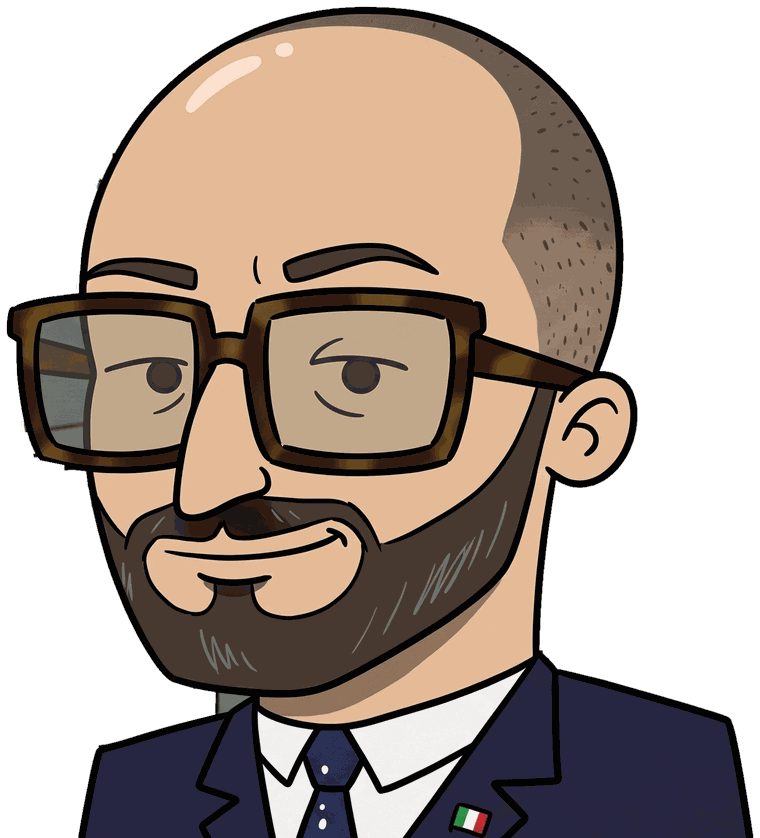
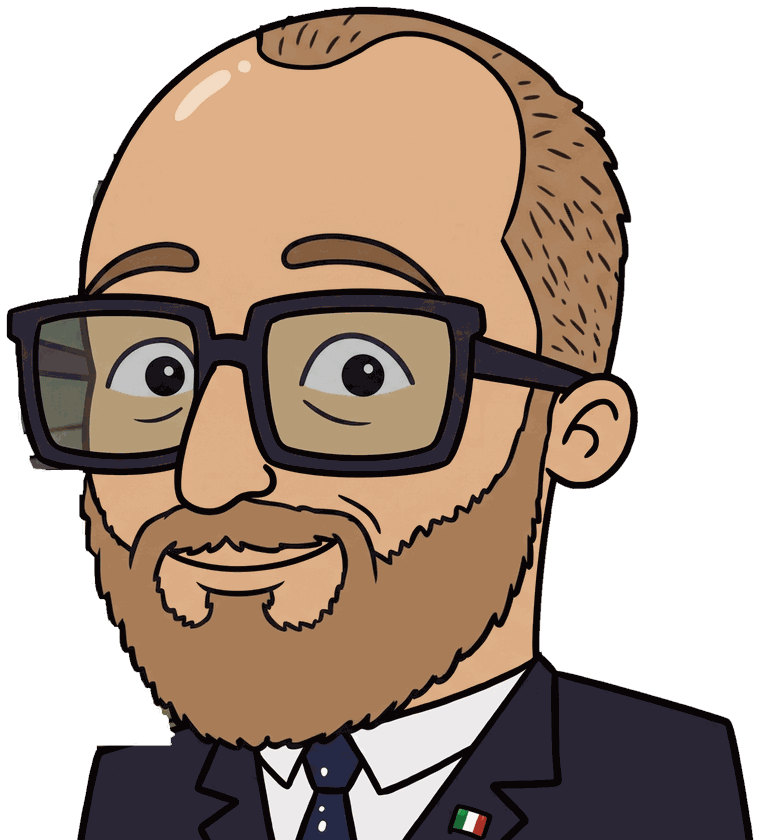
Sostituisce il ritratto con il disegno nuovo e rende generale lo scontorno
Il nuovo disegno ha la stessa scena ma la montatura degli occhiali scura e
la lente che lascia vedere lo sfondo: il taglio tarato sul disegno di prima
mangiava la lente e lasciava attaccato il mobile.

Ora il bordo del soggetto si riconosce dal rosso che supera insieme il blu
e il verde, che il legno del mobile non ha, e il cammino verso sinistra
procede di fascia in fascia: il tratto nero si attraversa sempre, una zona
chiara solo se è stretta, fredda di colore e chiusa da un altro tratto,
cioè se è una lente e non lo sfondo. La mediana su ottantuno righe regge
anche dove l'asta degli occhiali confonde le fasce.

Provato su tutti e due i disegni: in ognuno resta una sola sagoma.

Claude-Session: https://claude.ai/code/session_01JMbSEuxVZNQcryUKyYKwZ2

diff --git a/index.html b/index.html
@@ -80,7 +80,7 @@
         <p>Qui non si sforna niente. Si firmano atti, si fissano date e si risponde di quello che si &egrave;
            fatto. La pizza la fanno meglio in paese: qui si fa il resto.</p>
       </div>
-      <img class="ritratto" src="ritratto.png?v=b032f69f" width="760" height="838"
+      <img class="ritratto" src="ritratto.png?v=728543e7" width="760" height="840"
            alt="Ritratto a fumetto di Guido Costalonga: testa pelata, barba, occhiali dalla montatura spessa, giacca blu con la coccarda tricolore.">
     </div>
 

diff --git a/scontorna.py b/scontorna.py
@@ -21,53 +21,94 @@ SOGLIA_SCURO = 25       # solo il nero pieno è contorno: lo sfondo qui è scuro
 TOLLERANZA = 999        # il colore non vincola: a fermare il riempimento basta il contorno
 
 
-# Il taglio a sinistra vale per questo ritratto: lo sfondo freddo sta a
-# sinistra, il soggetto è caldo di pelle. I due numeri qui sotto dicono da
-# dove partire a cercare e fin dove guardare.
-PARTENZA = 350          # prima colonna utile: più a sinistra c'è solo sfondo
-ARRIVO = 900            # oltre questa colonna il soggetto c'è di sicuro
-FINE_OCCHIALI = 940     # ultima riga in cui il bordo è la montatura
-FINE_TAGLIO = 1010      # sotto questa riga non resta nulla da togliere
-BORDO_BARBA = 620       # bordo del soggetto sotto gli occhiali
+# Il taglio a sinistra: lo sfondo di questo disegno sta a sinistra del
+# personaggio, e il disegno chiude televisore e mobile con lo stesso tratto
+# nero della testa, quindi nessun assottigliamento li stacca. Si taglia
+# seguendo il bordo vero del soggetto, misurato riga per riga.
+QUOTA_ARRIVO = 0.62     # fin dove cercare il soggetto, in frazione di larghezza
+FILA_MINIMA = 10        # quanti pixel di seguito servono per dire "questa è pelle"
+ROSSO_SU_BLU = 45       # quanto il rosso supera il blu nella pelle e nella barba
+ROSSO_SU_VERDE = 20     # quanto il rosso supera il verde: il legno del mobile non ci arriva
+SOGLIA_TRATTO = 70      # sotto questa luce si è dentro al tratto nero del contorno
+CELLA_CHIUSA = 200      # larghezza massima di una cella chiusa dentro il disegno
+CELLA_FREDDA = 25       # una cella da scavalcare non ha il rosso sopra il blu
+SALTI = 3               # quante celle chiuse di seguito si possono scavalcare
+LISCIO = 40             # mezza finestra della statistica che liscia il bordo
+QUANTILE = 50           # la mediana: regge anche cinquanta righe confuse di seguito
 
 
-def taglia_a_sinistra(a, lum, soggetto):
-    """Toglie dalla sagoma tutto ciò che sta a sinistra del bordo vero."""
-    h, w = soggetto.shape
-    caldo = (a[:, :, 0] - a[:, :, 2]) > 25
+def fasce(riga_scura):
+    """Spezza una riga nelle sue fasce: (inizio, fine compreso, scura)."""
+    out, x, w = [], 0, len(riga_scura)
+    while x < w:
+        s = bool(riga_scura[x]); i = x
+        while x < w and bool(riga_scura[x]) == s:
+            x += 1
+        out.append((i, x - 1, s))
+    return out
+
+
+def bordo_del_soggetto(a, lum):
+    """Per ogni riga dice dove comincia il soggetto, oppure -1 se non c'è.
+
+    Il segno della pelle e della barba è il rosso che supera insieme il blu e
+    il verde: il grigio del televisore non lo ha, e il legno del mobile ha sì
+    il rosso sopra il blu ma non sopra il verde, quindi non viene scambiato
+    per personaggio.
+
+    Trovata la prima pelle si cammina verso sinistra di fascia in fascia. Il
+    tratto nero si attraversa sempre, perché è il contorno del disegno. Una
+    fascia chiara si attraversa solo se è stretta, fredda di colore e chiusa
+    da un altro tratto: è il caso della lente degli occhiali, che lascia
+    vedere lo sfondo ma appartiene al soggetto. Lo sfondo vero è largo, e il
+    legno del mobile ha il rosso sopra il blu: lì il cammino si ferma.
+    """
+    h, w, _ = a.shape
+    r, g, b = a[:, :, 0], a[:, :, 1], a[:, :, 2]
+    pelle = ((r - b) > ROSSO_SU_BLU) & ((r - g) > ROSSO_SU_VERDE)
+    scuro = lum < SOGLIA_TRATTO
+    arrivo = int(w * QUOTA_ARRIVO)
     bordo = np.full(h, -1)
     for y in range(h):
-        x0, fila = None, 0
-        for x in range(PARTENZA, min(ARRIVO, w)):
-            if caldo[y, x]:
+        x, fila = -1, 0
+        for i in range(arrivo):
+            if pelle[y, i]:
                 fila += 1
-                if fila >= 8:
-                    x0 = x - 7
+                if fila >= FILA_MINIMA:
+                    x = i - FILA_MINIMA + 1
                     break
             else:
                 fila = 0
-        if x0 is None:
+        if x < 0:
             continue
-        while x0 > PARTENZA and lum[y, x0 - 1] < 70:
-            x0 -= 1
-        bordo[y] = x0
-    # una mediana mobile toglie i salti dove passa la linea del mobile
+        fs = fasce(scuro[y])
+        i = 0
+        while i < len(fs) and fs[i][1] < x:
+            i += 1
+        while i >= 0 and not fs[i][2]:      # torna alla prima fascia scura
+            i -= 1
+        if i < 0:
+            continue
+        for _ in range(SALTI):
+            if i - 1 < 0:
+                break
+            p, q, _s = fs[i - 1]
+            freddo = int(np.mean(r[y, p:q + 1]) - np.mean(b[y, p:q + 1])) < CELLA_FREDDA
+            if (q - p + 1) <= CELLA_CHIUSA and freddo and i - 2 >= 0:
+                i -= 2                      # era una cella chiusa: si scavalca
+            else:
+                break                       # era lo sfondo: il bordo è questo
+        bordo[y] = fs[i][0]
+    # Una statistica mobile toglie i salti delle righe in cui il bordo passa
+    # dietro a una linea scura dello sfondo. Non si prende la mediana ma il
+    # primo quarto: in caso di dubbio il taglio resta più a sinistra, cioè
+    # lascia un filo di sfondo invece di mangiare un pezzo di disegno.
     liscio = bordo.copy()
     for y in range(h):
-        finestra = [v for v in bordo[max(0, y - 15):y + 16] if v > 0]
-        if finestra:
-            liscio[y] = int(np.median(finestra))
-    for y in range(PARTENZA, min(FINE_TAGLIO, h)):
-        if y <= FINE_OCCHIALI:
-            taglio = liscio[y]
-        elif y < FINE_OCCHIALI + 10:
-            passo = (y - FINE_OCCHIALI) / 10.0
-            taglio = int(liscio[FINE_OCCHIALI] + (BORDO_BARBA - liscio[FINE_OCCHIALI]) * passo)
-        else:
-            taglio = BORDO_BARBA
-        if taglio > 0:
-            soggetto[y, :taglio] = False
-    return soggetto
+        finestra = [v for v in bordo[max(0, y - LISCIO):y + LISCIO + 1] if v >= 0]
+        if finestra and bordo[y] >= 0:
+            liscio[y] = int(np.percentile(finestra, QUANTILE))
+    return liscio
 
 
 def scontorna(entrata, uscita, margine=14):
@@ -118,11 +159,19 @@ def scontorna(entrata, uscita, margine=14):
                 sfondo[ny, nx] = True
                 coda.append((ny, nx))
 
-    # 2. Della parte rimasta si tiene solo la sagoma più grande: il personaggio.
+    # 2. Taglio a sinistra lungo il bordo vero del soggetto: così televisore e
+    # mobile si staccano dal personaggio prima ancora di contare le sagome.
+    davanti = ~sfondo
+    bordo = bordo_del_soggetto(a, lum)
+    for y in range(h):
+        if bordo[y] > 0:
+            davanti[y, :bordo[y]] = False
+    sfondo = ~davanti
+
+    # 3. Della parte rimasta si tiene solo la sagoma più grande: il personaggio.
     # Prima però si assottiglia la maschera: così i fili di pochi pixel che
     # tengono ancora attaccato il televisore si spezzano, mentre la figura,
     # che è spessa, resta tutta intera. Alla fine si rigonfia di altrettanto.
-    davanti = ~sfondo
     m = Image.fromarray((davanti * 255).astype(np.uint8), "L")
     m = m.filter(ImageFilter.MinFilter(2 * EROSIONE + 1))
     davanti = np.asarray(m) > 127
@@ -148,20 +197,12 @@ def scontorna(entrata, uscita, margine=14):
     print("sagome trovate: %d | personaggio: %d pixel (%.1f%% del quadro)"
           % (n, dim_migliore, 100.0 * dim_migliore / (h * w)))
 
-    # 2bis. Del televisore e del mobile resta la parte che tocca il disegno:
-    # il loro contorno, dove sono nascosti dalla testa, è lo stesso contorno
-    # della testa, quindi nessun assottigliamento li stacca. Si tagliano
-    # seguendo il bordo vero del soggetto, misurato riga per riga: dal grigio
-    # dello sfondo si cammina verso destra fino alla prima pelle e si torna
-    # indietro fino a dove comincia il nero del contorno.
-    soggetto = taglia_a_sinistra(a, lum, soggetto)
-
-    # 3. Trasparenza con bordo ammorbidito, per non lasciare la scaletta.
+    # 4. Trasparenza con bordo ammorbidito, per non lasciare la scaletta.
     alfa = Image.fromarray((soggetto * 255).astype(np.uint8), "L")
     alfa = alfa.filter(ImageFilter.GaussianBlur(0.7))
     fuori = Image.merge("RGBA", (*im.split(), alfa))
 
-    # 4. Ritaglio sul personaggio, con un margine di respiro.
+    # 5. Ritaglio sul personaggio, con un margine di respiro.
     ys, xs = np.where(soggetto)
     y1, y2 = max(0, ys.min() - margine), min(h, ys.max() + 1 + margine)
     x1, x2 = max(0, xs.min() - margine), min(w, xs.max() + 1 + margine)

diff --git a/costruisci.py b/costruisci.py
@@ -265,7 +265,7 @@ CORPO_INDEX = """
         <p>Qui non si sforna niente. Si firmano atti, si fissano date e si risponde di quello che si &egrave;
            fatto. La pizza la fanno meglio in paese: qui si fa il resto.</p>
       </div>
-      <img class="ritratto" src="ritratto.png""" + impronta("ritratto.png") + """" width="760" height="838"
+      <img class="ritratto" src="ritratto.png""" + impronta("ritratto.png") + """" width="760" height="840"
            alt="Ritratto a fumetto di Guido Costalonga: testa pelata, barba, occhiali dalla montatura spessa, giacca blu con la coccarda tricolore.">
     </div>
 

diff --git a/LEGGIMI.md b/LEGGIMI.md
@@ -38,9 +38,13 @@ Più `stile.css`, `sito.js`, `sigillo.svg`, `ritratto.png`, `anteprima.png`,
 
 `ritratto.png` è il ritratto a fumetto senza sfondo, in apertura della prima
 pagina. Lo produce `scontorna.py` dal disegno originale: riempie lo sfondo
-partendo dai bordi, si ferma sul contorno nero, tiene la sagoma più grande e
-infine taglia il televisore e il mobile, che il disegno attacca al soggetto
-con lo stesso tratto della testa. `anteprima.png` è la scheda 1200 per 630
+partendo dai bordi, si ferma sul contorno nero e tiene la sagoma più grande.
+Televisore e mobile restano attaccati, perché il disegno li chiude con lo
+stesso tratto nero della testa: si tagliano seguendo il bordo vero del
+soggetto, che lo script misura riga per riga cercando la prima pelle e
+tornando indietro fino al tratto. La lente degli occhiali, che ha il colore
+dello sfondo perché lo lascia vedere, viene riconosciuta come parte del
+disegno perché è stretta e chiusa dentro un altro tratto. `anteprima.png` è la scheda 1200 per 630
 che compare quando un collegamento del sito viene condiviso.
 
 Le schede figlie hanno le briciole di navigazione in alto (Home, indice, scheda)
